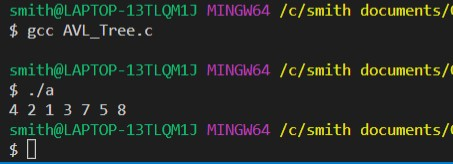
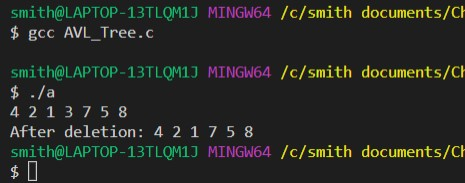
Add files via upload

Changed region(s): [[0.0, 0.3354, 1.0, 1.0], [0.0, 0.0, 1.0, 0.2439]]

diff --git a/AVL_Tree.c b/AVL_Tree.c
@@ -117,6 +117,65 @@ struct Node *minValueNode(struct Node *node) {
   return current;
 }
 
+// Delete a nodes
+struct Node *deleteNode(struct Node *root, int key) {
+  // Find the node and delete it
+  if (root == NULL)
+    return root;
+
+  if (key < root->key)
+    root->left = deleteNode(root->left, key);
+
+  else if (key > root->key)
+    root->right = deleteNode(root->right, key);
+
+  else {
+    if ((root->left == NULL) || (root->right == NULL)) {
+      struct Node *temp = root->left ? root->left : root->right;
+
+      if (temp == NULL) {
+        temp = root;
+        root = NULL;
+      } else
+        *root = *temp;
+      free(temp);
+    } else {
+      struct Node *temp = minValueNode(root->right);
+
+      root->key = temp->key;
+
+      root->right = deleteNode(root->right, temp->key);
+    }
+  }
+
+  if (root == NULL)
+    return root;
+
+  // Update the balance factor of each node and
+  // balance the tree
+  root->height = 1 + max(height(root->left),
+               height(root->right));
+
+  int balance = getBalance(root);
+  if (balance > 1 && getBalance(root->left) >= 0)
+    return rightRotate(root);
+
+  if (balance > 1 && getBalance(root->left) < 0) {
+    root->left = leftRotate(root->left);
+    return rightRotate(root);
+  }
+
+  if (balance < -1 && getBalance(root->right) <= 0)
+    return leftRotate(root);
+
+  if (balance < -1 && getBalance(root->right) > 0) {
+    root->right = rightRotate(root->right);
+    return leftRotate(root);
+  }
+
+  return root;
+}
+
 // Print the tree
 void printPreOrder(struct Node *root) {
   if (root != NULL) {
@@ -137,6 +196,11 @@ int main() {
   root = insertNode(root, 3);
   root = insertNode(root, 8);
 
+  printPreOrder(root);
+
+  root = deleteNode(root, 3);
+
+  printf("\nAfter deletion: ");
   printPreOrder(root);
 
   return 0;
